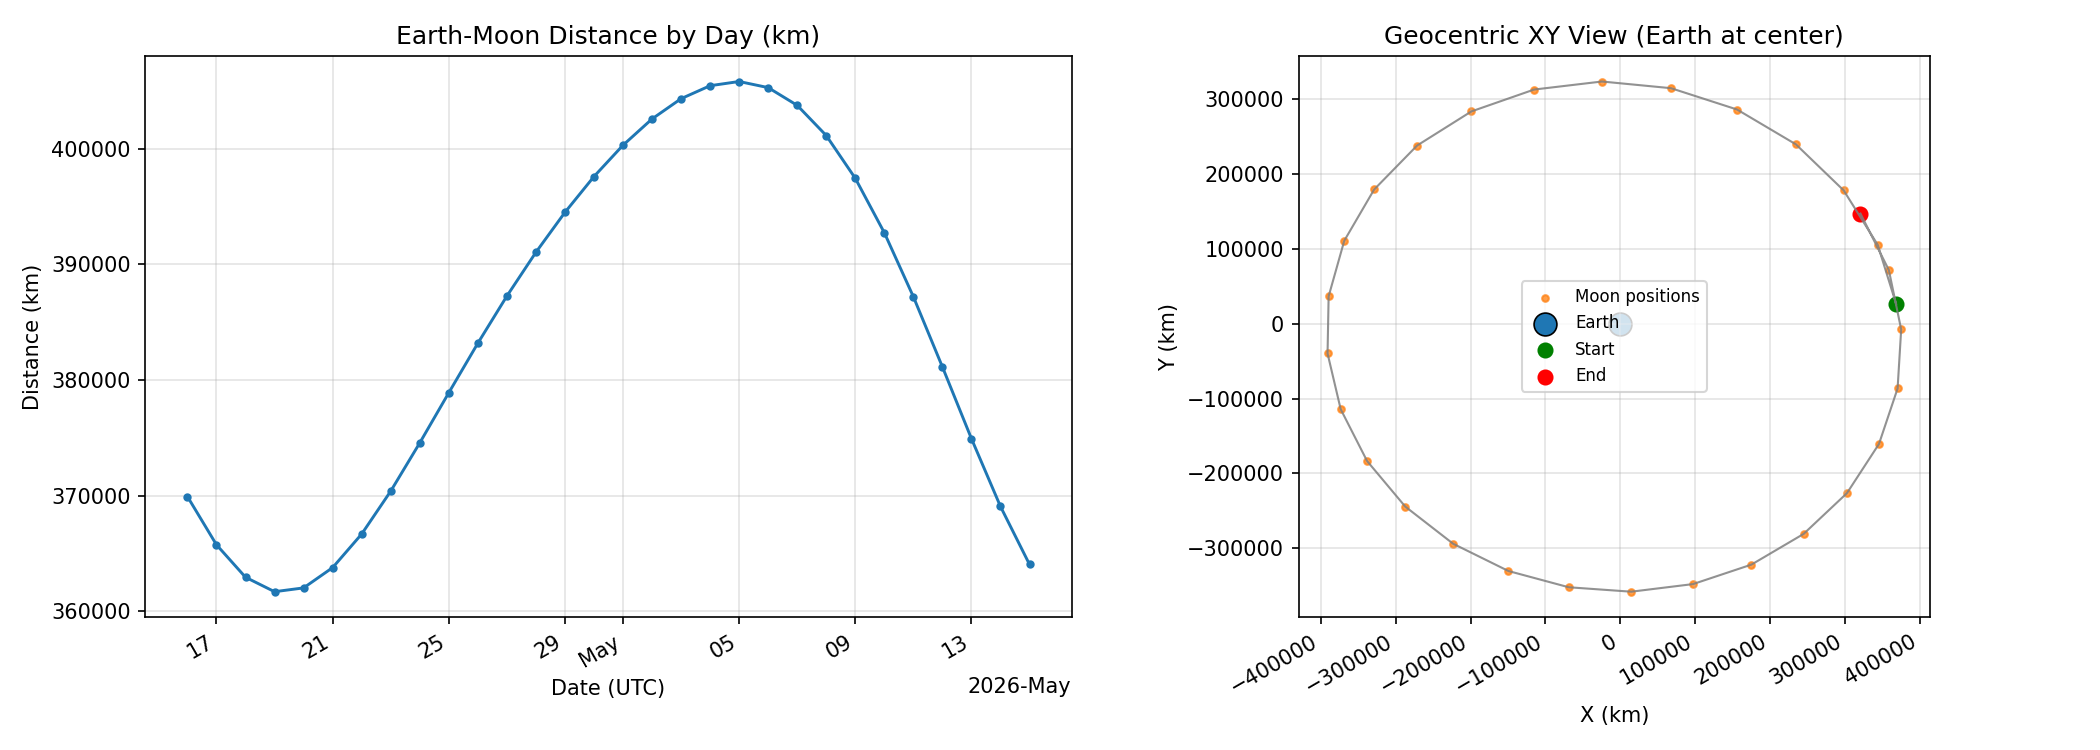
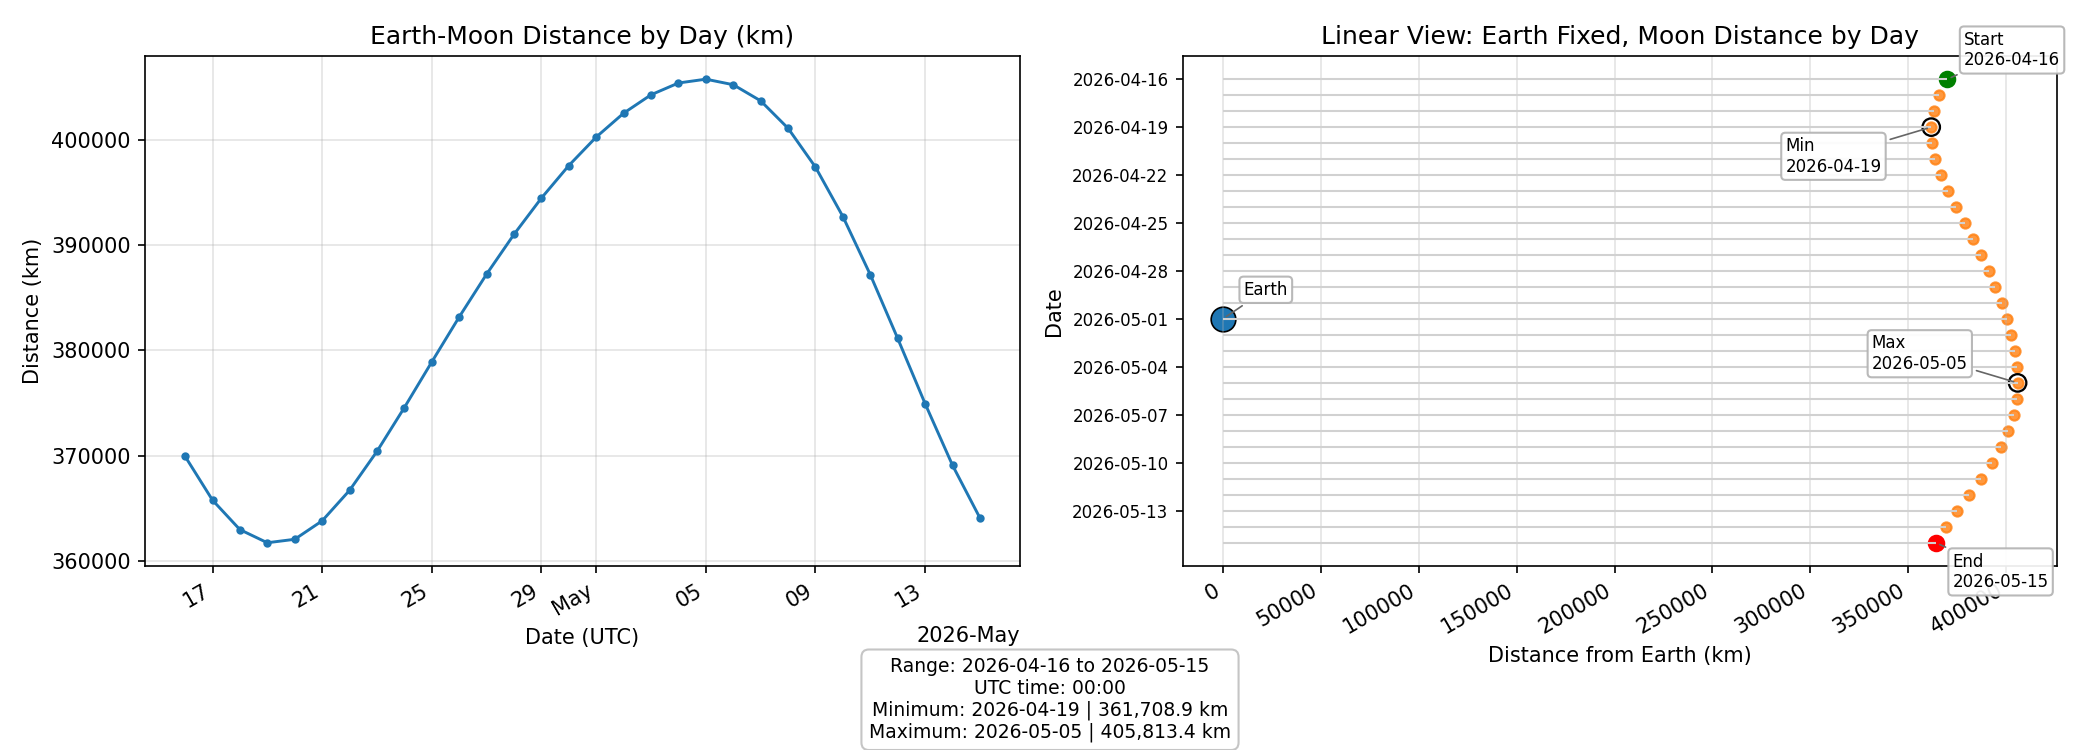
update files

diff --git a/scripts/earth_moon_distance_daily.py b/scripts/earth_moon_distance_daily.py
@@ -195,7 +195,7 @@ def append_csv(rows: Iterable[DistanceRow], output_path: Path) -> int:
     return appended
 
 
-def create_plot(rows: list[DistanceRow], plot_output: Path, max_ticks: int = 10) -> None:
+def create_plot(rows: list[DistanceRow], plot_output: Path, utc_time: time, max_ticks: int = 10) -> None:
     try:
         import matplotlib.pyplot as plt
         import matplotlib.dates as mdates
@@ -205,10 +205,10 @@ def create_plot(rows: list[DistanceRow], plot_output: Path, max_ticks: int = 10)
     plot_output.parent.mkdir(parents=True, exist_ok=True)
     dates = [datetime.combine(row.day, time.min) for row in rows]
     distances = [row.distance_km for row in rows]
-    moon_x = [row.x_km for row in rows]
-    moon_y = [row.y_km for row in rows]
+    min_row = min(rows, key=lambda item: item.distance_km)
+    max_row = max(rows, key=lambda item: item.distance_km)
 
-    fig, (ax_distance, ax_orbit) = plt.subplots(1, 2, figsize=(14, 5))
+    fig, (ax_distance, ax_linear) = plt.subplots(1, 2, figsize=(14, 5))
     ax_distance.plot(dates, distances, marker="o", linewidth=1.4, markersize=3)
     ax_distance.set_title("Earth-Moon Distance by Day (km)")
     ax_distance.set_xlabel("Date (UTC)")
@@ -222,19 +222,65 @@ def create_plot(rows: list[DistanceRow], plot_output: Path, max_ticks: int = 10)
     ax_distance.xaxis.set_major_formatter(formatter)
     fig.autofmt_xdate(rotation=30, ha="right")
 
-    ax_orbit.plot(moon_x, moon_y, color="tab:gray", linewidth=1.0, alpha=0.85)
-    ax_orbit.scatter(moon_x, moon_y, s=10, color="tab:orange", alpha=0.75, label="Moon positions")
-    ax_orbit.scatter([0.0], [0.0], s=120, color="tab:blue", edgecolors="black", linewidths=0.8, label="Earth")
-    ax_orbit.scatter([moon_x[0]], [moon_y[0]], s=45, color="green", label="Start")
-    ax_orbit.scatter([moon_x[-1]], [moon_y[-1]], s=45, color="red", label="End")
-    ax_orbit.set_title("Geocentric XY View (Earth at center)")
-    ax_orbit.set_xlabel("X (km)")
-    ax_orbit.set_ylabel("Y (km)")
-    ax_orbit.set_aspect("equal", adjustable="box")
-    ax_orbit.grid(alpha=0.35)
-    ax_orbit.legend(loc="best", fontsize=8)
+    y_positions = list(range(len(rows)))
+    ax_linear.hlines(y_positions, xmin=0.0, xmax=distances, color="0.82", linewidth=1.0)
+    ax_linear.scatter(distances, y_positions, s=24, color="tab:orange", alpha=0.8)
+    ax_linear.scatter([0.0], [len(rows) / 2], s=140, color="tab:blue", edgecolors="black", linewidths=0.8)
 
-    fig.tight_layout()
+    start_y = y_positions[0]
+    end_y = y_positions[-1]
+    min_y = distances.index(min_row.distance_km)
+    max_y = distances.index(max_row.distance_km)
+    ax_linear.scatter([rows[0].distance_km], [start_y], s=55, color="green")
+    ax_linear.scatter([rows[-1].distance_km], [end_y], s=55, color="red")
+    ax_linear.scatter([min_row.distance_km], [min_y], s=70, facecolors="none", edgecolors="black", linewidths=1.1)
+    ax_linear.scatter([max_row.distance_km], [max_y], s=70, facecolors="none", edgecolors="black", linewidths=1.1)
+
+    def annotate_linear(label: str, x_value: float, y_value: float, *, x_offset: int = 8, y_offset: int = 0) -> None:
+        ax_linear.annotate(
+            label,
+            (x_value, y_value),
+            xytext=(x_offset, y_offset),
+            textcoords="offset points",
+            fontsize=8,
+            va="center",
+            bbox={"boxstyle": "round,pad=0.25", "facecolor": "white", "alpha": 0.92, "edgecolor": "0.7"},
+            arrowprops={"arrowstyle": "-", "color": "0.4", "lw": 0.8},
+        )
+
+    annotate_linear("Earth", 0.0, len(rows) / 2, x_offset=10, y_offset=14)
+    annotate_linear(f"Start\n{rows[0].day.isoformat()}", rows[0].distance_km, start_y, y_offset=14)
+    annotate_linear(f"End\n{rows[-1].day.isoformat()}", rows[-1].distance_km, end_y, y_offset=-14)
+    annotate_linear(f"Min\n{min_row.day.isoformat()}", min_row.distance_km, min_y, x_offset=-70, y_offset=-14)
+    annotate_linear(f"Max\n{max_row.day.isoformat()}", max_row.distance_km, max_y, x_offset=-70, y_offset=14)
+
+    tick_step = max(1, len(rows) // 8)
+    ax_linear.set_yticks(y_positions[::tick_step])
+    ax_linear.set_yticklabels([rows[index].day.isoformat() for index in y_positions[::tick_step]], fontsize=8)
+    ax_linear.set_title("Linear View: Earth Fixed, Moon Distance by Day")
+    ax_linear.set_xlabel("Distance from Earth (km)")
+    ax_linear.set_ylabel("Date")
+    ax_linear.grid(axis="x", alpha=0.35)
+    ax_linear.set_xlim(left=-max(distances) * 0.05)
+    ax_linear.invert_yaxis()
+
+    summary_text = (
+        f"Range: {rows[0].day.isoformat()} to {rows[-1].day.isoformat()}\n"
+        f"UTC time: {utc_time.strftime('%H:%M')}\n"
+        f"Minimum: {min_row.day.isoformat()} | {min_row.distance_km:,.1f} km\n"
+        f"Maximum: {max_row.day.isoformat()} | {max_row.distance_km:,.1f} km"
+    )
+    fig.text(
+        0.5,
+        0.01,
+        summary_text,
+        ha="center",
+        va="bottom",
+        fontsize=9,
+        bbox={"boxstyle": "round,pad=0.4", "facecolor": "white", "alpha": 0.9, "edgecolor": "0.75"},
+    )
+
+    fig.tight_layout(rect=(0, 0.08, 1, 1))
     fig.savefig(plot_output, dpi=150)
     plt.close(fig)
 
@@ -394,7 +440,7 @@ class DistanceGui:
                     if plot_path_text
                     else output_path.with_suffix(".png")
                 )
-                create_plot(rows, plot_output=plot_path, max_ticks=self.plot_tick_density.get())
+                create_plot(rows, plot_output=plot_path, utc_time=utc_time, max_ticks=self.plot_tick_density.get())
                 self._log(f"Plot saved: {plot_path}")
 
             min_row = min(rows, key=lambda item: item.distance_km)
@@ -437,7 +483,7 @@ def main() -> int:
                 if args.plot_output.strip()
                 else output_path.with_suffix(".png")
             )
-            create_plot(rows=rows, plot_output=plot_path)
+            create_plot(rows=rows, plot_output=plot_path, utc_time=utc_time)
             print(f"Plot saved: {plot_path}")
     except (argparse.ArgumentTypeError, ValueError) as exc:
         print(str(exc), file=sys.stderr)
